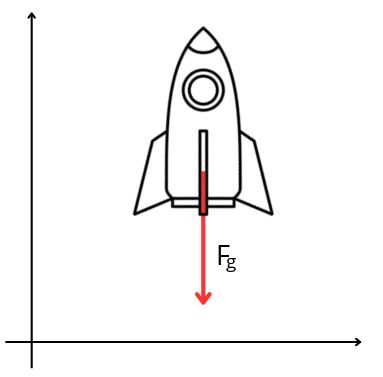
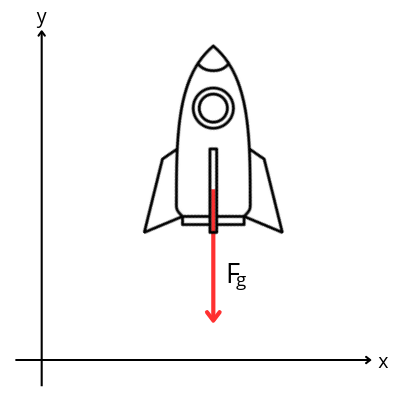
Grav e Visc

Changed region(s): [[0.3446, 0.0584, 0.718, 0.817], [0.0287, 0.0292, 0.1149, 0.992], [0.8903, 0.8753, 0.9765, 0.9337]]

diff --git a/README.md b/README.md
@@ -15,8 +15,24 @@ Como sabemos, nosso foquete, assim como os outros corpos nos planetas, sofre o e
 em direção ao solo.
 Tomando um referencial estático no solo e um sistema de cordenadas cartesiano, temos que tal força, em nosso objeto de estudo,
 pode ser representada da seguinte maneira:
-<img alt="Foguete" src="/images/fogeute_gravidade.png">
+<p align="center">
+    <img alt="Foguete" src="/images/foguete_gravidade.png">
+</p>
+Dessa forma, podemos descrever essa força da seguinte maneira em nosso sistema:
+$$\begin{equation}
+\vec{F}_g = - m \cdot g  \hat{j}
+\end{equation}$$
 
+### Força Viscosa
+Agora, outra força que precisamos analisar em nosso sistema é a força viscosa, a qual irá variar de intensidade dependendo da
+atmosfera do planeta e da velocidade do nosso foguete, sendo ela representada assim em nosso sistema de coordenadas:
+<p align="center">
+    <img alt="Foguete" src="/images/foguete_viscosidade.png">
+</p>
+Dessa forma, podemos descrever essa força da seguinte maneira em nosso sistema:
+$$\begin{equation}
+\vec{F}_v = - b \cdot \vec{v}
+\end{equation}$$
 
 
 ## Implementação
